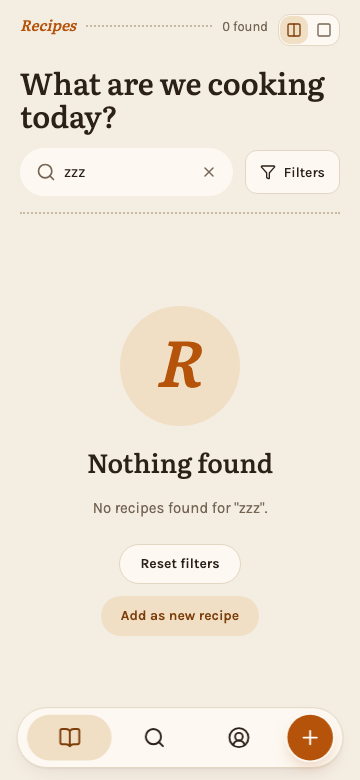
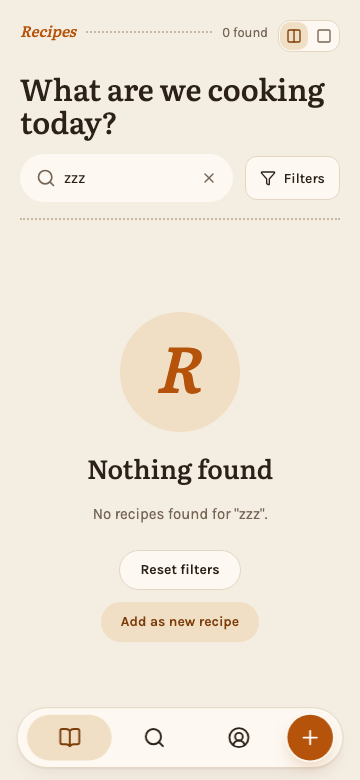
fix(docs): the no-results screenshot starts at the top of the page

diff --git a/docs/user/screenshots/overview.spec.ts b/docs/user/screenshots/overview.spec.ts
@@ -85,6 +85,10 @@ test('no-results', async ({ page }, testInfo) => {
 	await page.getByLabel('Search recipes').fill('zzz');
 	await page.getByLabel('Search recipes').press('Enter');
 	await expect(page.getByRole('heading', { name: 'Nothing found' })).toBeVisible();
+	// The focused field scrolls the phone's page a few pixels, sometimes
+	// before and sometimes after the picture; start from the top instead.
+	await page.getByLabel('Search recipes').blur();
+	await page.evaluate(() => scrollTo(0, 0));
 	await shot(page, 'no-results');
 });
 
